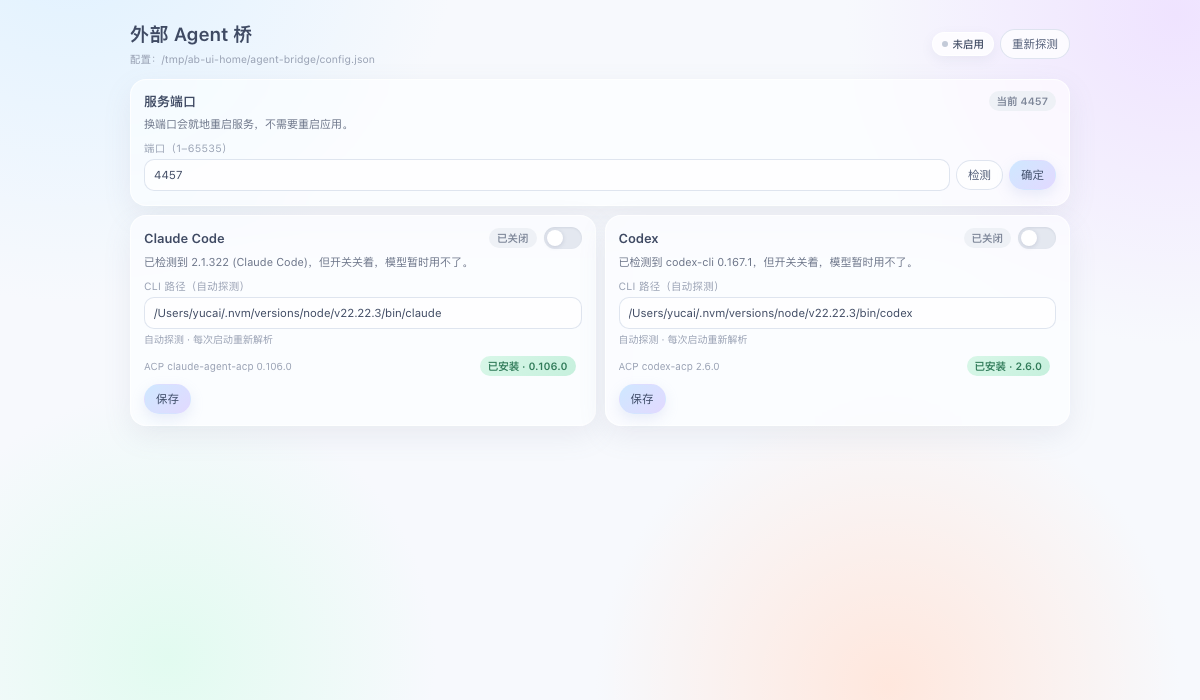
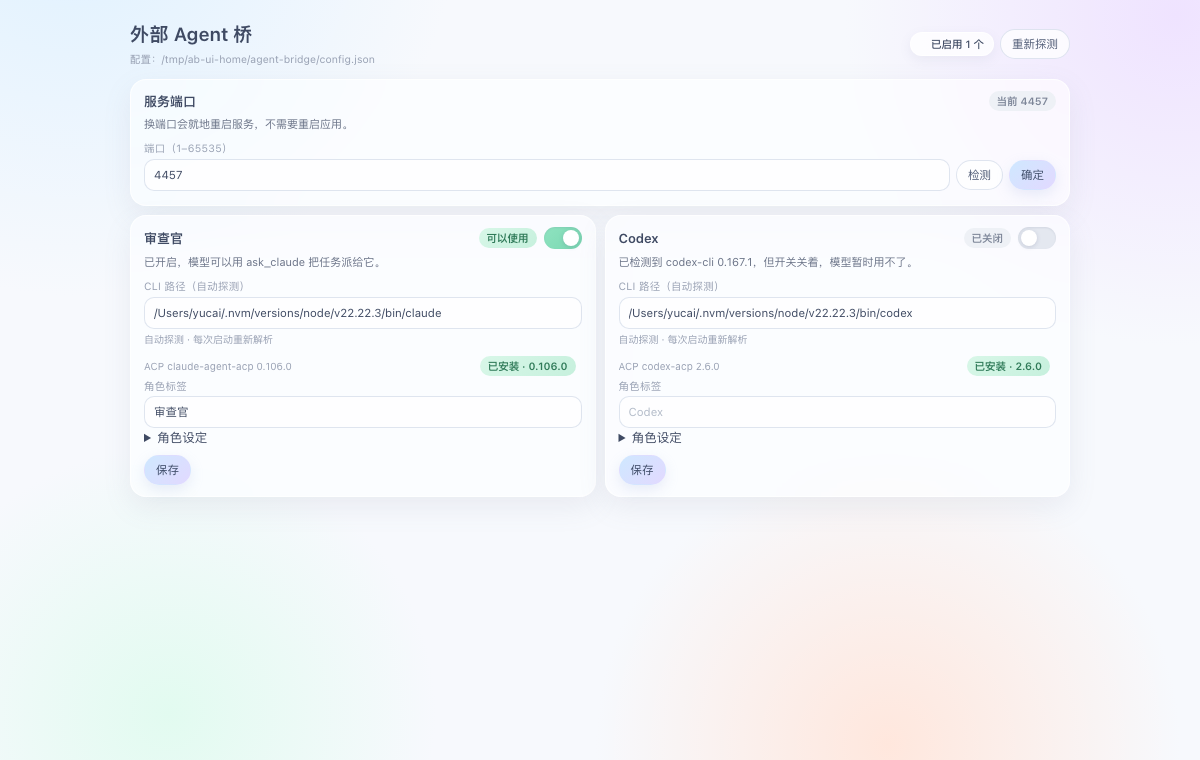
Add role label and role definition per agent

diff --git a/lib/client.js b/lib/client.js
@@ -60,6 +60,14 @@ window.__ModuleLoader__.load({
       .ab-input::placeholder{color:#b3bbc9}
       .ab-input:focus{border-color:#b9d4f6;box-shadow:0 0 0 3px rgba(185,212,246,.26)}
       .ab-hint{margin:4px 0 0;font-size:9.5px;line-height:1.5;color:#98a1b3;overflow-wrap:anywhere}
+      .ab-role{display:grid;grid-template-columns:auto minmax(0,1fr);align-items:center;gap:6px;margin-top:6px}
+      .ab-role .ab-label{margin:0}
+      .ab-details{margin-top:6px}
+      .ab-details summary{cursor:pointer;font-size:9.5px;color:#98a1b3;list-style:none}
+      .ab-details summary::-webkit-details-marker{display:none}
+      .ab-details summary::before{content:"▸ "}
+      .ab-details[open] summary::before{content:"▾ "}
+      textarea.ab-input{resize:vertical;min-height:58px;font-family:inherit;line-height:1.5}
       .ab-adapter{display:grid;grid-template-columns:minmax(0,1fr) auto auto;align-items:center;gap:6px;margin-top:6px}
       .ab-adapter-name{font-size:9.5px;color:#98a1b3;overflow:hidden;text-overflow:ellipsis;white-space:nowrap}
       .ab-actions{display:flex;align-items:center;flex-wrap:wrap;gap:6px;margin-top:7px}
@@ -88,7 +96,11 @@ window.__ModuleLoader__.load({
       const detected = agent.detection?.path || ''
       const automatic = agent.command === ''
       const [path, setPath] = useState(agent.command || detected)
+      const [roleLabel, setRoleLabel] = useState(agent.roleLabel || '')
+      const [persona, setPersona] = useState(agent.persona || '')
       const [saved, setSaved] = useState('')
+      useEffect(() => { setRoleLabel(agent.roleLabel || '') }, [agent.roleLabel])
+      useEffect(() => { setPersona(agent.persona || '') }, [agent.persona])
       const [installing, setInstalling] = useState(false)
       const [adapterNote, setAdapterNote] = useState('')
       useEffect(() => { setPath(agent.command || detected) }, [agent.command, detected])
@@ -118,12 +130,13 @@ window.__ModuleLoader__.load({
       const usable = agent.enabled && agent.detection.available && adapter.ready
       const tone = agent.detection.available ? (usable ? 'is-ready' : 'is-off') : 'is-bad'
       const status = agent.detection.available ? (usable ? '可以使用' : '已关闭') : '不可用'
+      const cliName = agent.cliLabel || agent.label
       const summary = !agent.detection.available
         ? `没有找到可用的 CLI：${agent.detection.reason || '未知原因'}。在下面填绝对路径可以手动指定。`
         : !adapter.ready
           ? `CLI 已就绪，但还缺 ACP 适配器。安装后才能启用。`
           : usable
-            ? `已开启，模型可以用 ask_${agent.id} 把任务派给它。`
+            ? `已开启（${cliName}），模型可以用 ask_${agent.id} 把任务派给它。${persona.trim() === '' ? '' : '已附加角色设定。'}`
             : `已检测到 ${agent.detection.version || 'CLI'}，但开关关着，模型暂时用不了。`
 
       return h('section', { className: 'ab-card' },
@@ -159,11 +172,25 @@ window.__ModuleLoader__.load({
             onClick: installAdapter,
           }, installing ? '安装中…' : '安装'),
           adapterNote ? h('span', { className: 'ab-status' }, adapterNote) : null),
+        h('div', { className: 'ab-role' },
+          h('span', { className: 'ab-label' }, '角色标签'),
+          h('input', {
+            className: 'ab-input', value: roleLabel, maxLength: 10,
+            placeholder: agent.cliLabel || agent.label,
+            onChange: (event) => setRoleLabel(event.target.value),
+          })),
+        h('details', { className: 'ab-details' },
+          h('summary', null, '角色设定'),
+          h('textarea', {
+            className: 'ab-input', rows: 3, value: persona,
+            placeholder: '例如：你是严格的代码审查官，只报问题、不夸奖；输出编号列表，每条给修复建议。',
+            onChange: (event) => setPersona(event.target.value),
+          })),
         h('div', { className: 'ab-actions' },
           h('button', {
             className: 'ab-btn is-primary', disabled: busy,
             onClick: async () => {
-              await onSave({ command: path })
+              await onSave({ command: path, label: roleLabel, persona })
               setSaved('已保存')
               setTimeout(() => setSaved(''), 1600)
             },

diff --git a/index.js b/index.js
@@ -145,10 +145,14 @@ export async function apply(ctx, pluginConfig = {}) {
     agents: AGENTS.map((agent) => {
       const entry = config.agents[agent.id]
       const adapter = resolveAdapter(agent, entry)
+      const effectiveLabel = (entry.label || '').trim() || agent.label
       const adapterInfo = adapterStatus(agent, entry)
       return {
         id: agent.id,
-        label: agent.label,
+        label: effectiveLabel,
+        cliLabel: agent.label,
+        roleLabel: entry.label,
+        persona: entry.persona,
         enabled: entry.enabled,
         command: entry.command,
         effectiveCommand: entry.command || agent.bin,
@@ -179,6 +183,8 @@ export async function apply(ctx, pluginConfig = {}) {
     const entry = config.agents[id]
     if (typeof patch.enabled === 'boolean') entry.enabled = patch.enabled
     if (typeof patch.command === 'string') entry.command = patch.command.trim()
+    if (typeof patch.label === 'string') entry.label = patch.label.trim().slice(0, 10)
+    if (typeof patch.persona === 'string') entry.persona = patch.persona.slice(0, 4000)
     if (typeof patch.adapterCommand === 'string' && patch.adapterCommand.trim() !== '') {
       entry.adapterCommand = patch.adapterCommand.trim()
     }
@@ -301,12 +307,29 @@ export async function apply(ctx, pluginConfig = {}) {
  * @param {number} firstChunkMs - First-chunk deadline passed to the ACP runner.
  * @returns {object} Raw tool definition.
  */
+/**
+ * Compose the text actually sent to the child: an optional role block plus the task.
+ * @param {{label?: string, persona?: string}} entry - Agent config entry.
+ * @param {string} fallbackLabel - Default display name.
+ * @param {string} task - The caller's task text.
+ * @returns {string} The prompt to send.
+ */
+export function composeTask(entry, fallbackLabel, task) {
+  const persona = (entry.persona ?? '').trim()
+  if (persona === '') return task
+  const name = (entry.label ?? '').trim() || fallbackLabel
+  return `【角色】你是「${name}」。\n${persona}\n\n【任务】\n${task}`
+}
+
 function buildTool(agent, config, firstChunkMs) {
   const entry = config.agents[agent.id]
+  const roleName = (entry.label || '').trim() || agent.label
+  const hasPersona = (entry.persona || '').trim() !== ''
   return {
     name: `ask_${agent.id}`,
-    description: `Delegate one self-contained task to ${agent.label} through its ACP adapter and return the final answer. `
-      + `The child runs in its own process as "${agent.id}" and receives only the task text, never this conversation.`,
+    description: `Delegate one self-contained task to ${roleName} (${agent.label}) through its ACP adapter and return the final answer. `
+      + `The child runs in its own process as "${agent.id}" and receives only the task text, never this conversation.`
+      + (hasPersona ? ` It follows the role definition configured on the bridge panel.` : ''),
     parameters: {
       type: 'object',
       properties: { task: { type: 'string', description: 'The complete, self-contained task for the child agent.' } },
@@ -330,7 +353,7 @@ function buildTool(agent, config, firstChunkMs) {
           command: adapter.command,
           args: adapter.args,
           cwd: process.cwd(),
-          task: String(args.task),
+          task: composeTask(entry, agent.label, String(args.task)),
           timeoutMs: 240_000,
           firstChunkMs,
           signal: exec?.signal,

diff --git a/public/index.html b/public/index.html
@@ -305,9 +305,28 @@ const cardFor = (agent) => {
     : '固定路径 · 清空并保存可恢复自动'))
   field.append(adapterBlock(agent))
 
+  const roleRow = el('div', 'role-row')
+  roleRow.append(el('span', 'label', '角色标签'))
+  const roleInput = el('input', 'input')
+  roleInput.value = agent.roleLabel || ''
+  roleInput.placeholder = agent.cliLabel
+  roleInput.maxLength = 10
+  roleRow.append(roleInput)
+
+  const details = document.createElement('details')
+  details.className = 'role'
+  const summaryEl = document.createElement('summary')
+  summaryEl.textContent = '角色设定'
+  const persona = document.createElement('textarea')
+  persona.className = 'input'
+  persona.rows = 3
+  persona.value = agent.persona || ''
+  persona.placeholder = '例如：你是严格的代码审查官，只报问题、不夸奖；输出编号列表，每条给修复建议。'
+  details.append(summaryEl, persona)
+
   const actions = el('div', 'actions')
   const saveButton = el('button', 'btn primary', '保存')
-  saveButton.onclick = () => save(agent.id, { command: input.value })
+  saveButton.onclick = () => save(agent.id, { command: input.value, label: roleInput.value, persona: persona.value })
   actions.append(saveButton)
   if (agent.command !== '') {
     const reset = el('button', 'btn ghost', '恢复自动')
@@ -315,7 +334,7 @@ const cardFor = (agent) => {
     actions.append(reset)
   }
 
-  card.append(head, summary, field, actions)
+  card.append(head, summary, field, roleRow, details, actions)
   return card
 }
 

diff --git a/README.md b/README.md
@@ -107,6 +107,21 @@ ask_claude: "审一下 src/server.mjs 的并发问题，用编号列表回答。
 探测、注册、页面、派遣都会自动跟上。前提是该 CLI 有 ACP 适配器；本插件故意不做“直调 CLI”兜底，
 避免两套派遣语义并存。
 
+### 角色标签与角色设定
+
+每张卡可以给外部 Agent 起一个 **≤10 字的角色标签**（只影响展示和工具描述），并写一段
+**角色设定**（可选，最多 4000 字符）。设定会在派遣时拼进任务文本最前面：
+
+```
+【角色】你是「审查官」。
+只报问题，不夸奖；输出编号列表，每条给修复建议。
+
+【任务】
+<调用方原本的任务>
+```
+
+这样任何适配器都能生效——不需要适配器支持 system prompt。没填设定时任务原样发送，不加任何前缀。
+
 ### 首字超时
 
 一次派遣如果 **30 秒**内没有任何流式输出，会被中止：取消 ACP 会话、终止适配器进程（SIGTERM，

diff --git a/README.en.md b/README.en.md
@@ -113,6 +113,22 @@ Edit `lib/agents.mjs`:
 Detection, registration, the page, and dispatch all pick it up. The CLI needs an ACP adapter;
 this plugin intentionally has no "raw CLI" fallback, so there is only one dispatch semantics.
 
+### Role label and role definition
+
+Each card takes a **role label** (≤10 characters, display and tool description only) and an optional
+**role definition** (≤4000 characters). The definition is prepended to every dispatched task:
+
+```
+【Role】You are "Reviewer".
+Report problems only, no praise; output a numbered list with fixes.
+
+【Task】
+<the caller's task>
+```
+
+This works with any adapter because it is plain task text — no system-prompt support required. With
+no definition configured the task is sent unchanged.
+
 ### First-token deadline
 
 A delegation that produces no streamed output within **30 seconds** is aborted: the ACP session is
